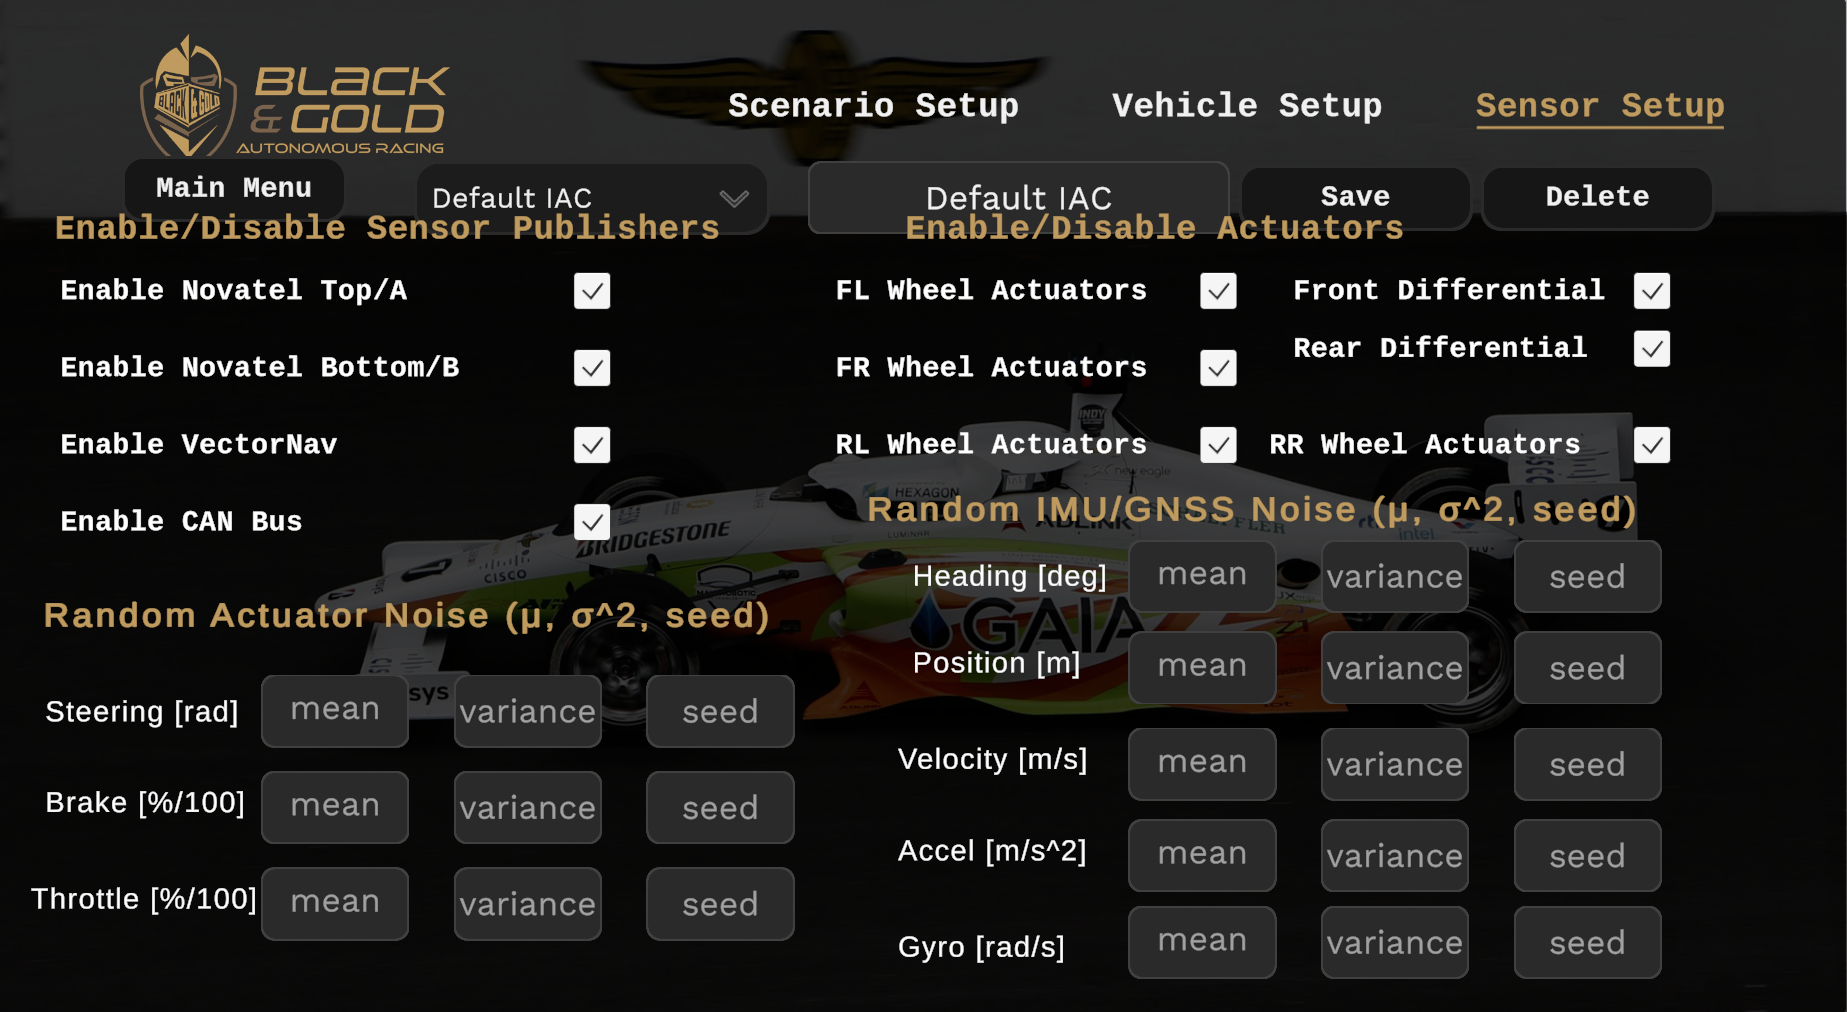
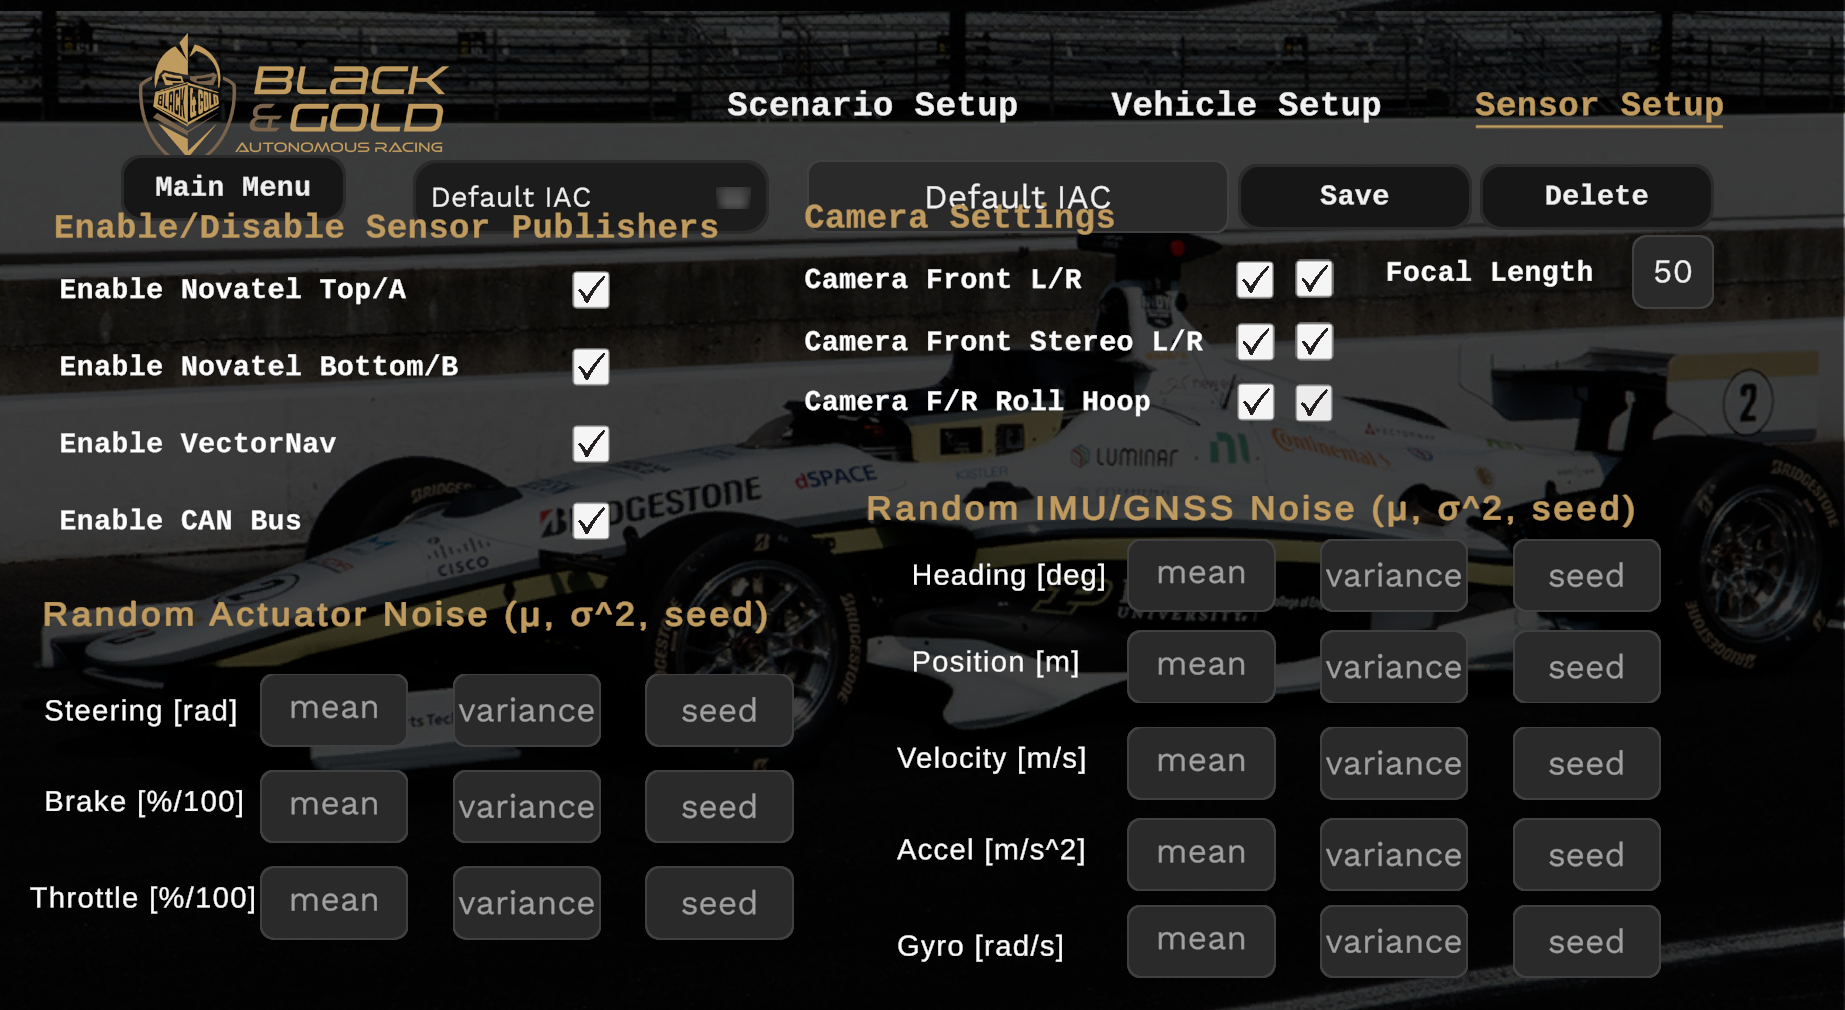
Deployed 218be4b with MkDocs version: 1.6.1

diff --git a/index.html b/index.html
@@ -403,6 +403,15 @@
   
 </li>
         
+          <li class="md-nav__item">
+  <a href="#camera-sensors" class="md-nav__link">
+    <span class="md-ellipsis">
+      Camera Sensors
+    </span>
+  </a>
+  
+</li>
+        
       </ul>
     </nav>
   
@@ -647,6 +656,15 @@
   <a href="#visualizing-raceline" class="md-nav__link">
     <span class="md-ellipsis">
       Visualizing Raceline
+    </span>
+  </a>
+  
+</li>
+        
+          <li class="md-nav__item">
+  <a href="#camera-sensors" class="md-nav__link">
+    <span class="md-ellipsis">
+      Camera Sensors
     </span>
   </a>
   
@@ -1124,6 +1142,15 @@
   
 </li>
         
+          <li class="md-nav__item">
+  <a href="#camera-sensors" class="md-nav__link">
+    <span class="md-ellipsis">
+      Camera Sensors
+    </span>
+  </a>
+  
+</li>
+        
       </ul>
     </nav>
   
@@ -1273,7 +1300,8 @@ In the main menu, click the 'Scenario Setup' button.
     - Set ambient and track temperatures (Celsius)</p>
 <h2 id="sensor-setup-via-gui">Sensor Setup (via GUI)</h2>
 <p>PAIRSIM has input fields under sensor setup to configure the gaussian noise values of the corresponding actuator/sensor values. (Default values are 0.0)</p>
-<p>You can disable sensors or actuators to simulate faults.</p>
+<p>You can disable high-level or low-level sensors to simulate faults.</p>
+<p>You can also configure the perception sensors.</p>
 <p><img alt="" src="RacingSim/Overview/Image_sensor_setup.png" /></p>
 <h2 id="further-vehicletire-parameter-configuration-via-config-files">Further Vehicle/Tire Parameter configuration (via config files)</h2>
 <h3 id="part-i-loading-setup-configuration-files-via-gui">PART I. Loading Setup Configuration Files via GUI</h3>
@@ -1371,10 +1399,15 @@ Due to the large number of vehicle/tire parameters, they are not accessible thro
 </li>
 </ul>
 <h3 id="running-with-npc-vehicle">Running with NPC Vehicle</h3>
-<p>PAIRSIM supports multi-vehicle simulation, with the adversarial vehicle controlled either via the high-level ROS2 interface (<code>/npc/vehicle_data</code>, <code>/npc/powertrain_data</code>, <code>/npc/race_control</code>, <code>/npc/vehicle_inputs</code>, <code>/npc/to_raptor</code>)OR <code>/planning/ghost_veh_position</code>, which is a <code>autoware_auto_perception_msgs/BoundingBoxArray</code> msg type containing the current centroid position (x,y) of the desired "ghost" vehicle in the ego vehicle's local frame using conventional vehicle dynamics CRS (+x forward, +y left). Adversarial vehicle's +z direction will match the ego vehicle's by default.</p>
+<p>PAIRSIM supports multi-vehicle simulation, with the adversarial vehicle controlled either via the high-level ROS2 interface (<code>/npc/vehicle_data</code>, <code>/npc/powertrain_data</code>, <code>/npc/race_control</code>, <code>/npc/vehicle_inputs</code>, <code>/npc/to_raptor</code>) OR (<code>/planning/ghost_vehicle/heading</code>, <code>/planning/ghost_vehicle/measurement</code>).</p>
+<p><code>/planning/ghost_vehicle/heading</code> is a <code>std_msgs/Float32.msg</code> msg type containing the current ENU heading [deg] of the desired "ghost" vehicle.</p>
+<p><code>/planning/ghost_vehicle/measurement</code> is a <code>std_msgs/Point32.msg</code> msg type containing the centroid position (x,y) of the desired "ghost" vehicle in the ego vehicle's local frame using conventional vehicle dynamics CRS (+x forward, +y left). The adversarial vehicle's +z direction will match the ego vehicle's by default and will be automatically rotated about the longitudinal axis in order to conform to the banked surface.</p>
 <h3 id="visualizing-raceline">Visualizing Raceline</h3>
 <p>PAIRSIM supports raceline visualization, where the raceline being sent by the autonomy stack will appear as a series of green dots. Toggle on/off on the top left side of the screen (see below). The raceline must be sent with the topic name <code>/planning/front_path/offset_path</code>, which is a <code>nav_msgs/Path</code> msg type containing a raceline represented as a series of <code>geometry_msgs/Pose</code> msgs in the ego vehicle's local frame using conventional vehicle dynamics CRS. To reduce lag, it is best to pass a local portion of the raceline rather than the entire raceline (no more than 100 poses, and the number of green dots will NOT necessarily match the number of poses).</p>
 <p><img alt="" src="RacingSim/Overview/Image_waypoints.png" /></p>
+<h3 id="camera-sensors">Camera Sensors</h3>
+<p>The publishers for each of the 6 on-board camera sensors will publish a <code>sensor_msgs/Image.msg</code> if previously enabled in the Sensor Setup menu. All 6 cameras may consume a lot of resources so it is recommended you enable only a few at a time.</p>
+<p><img alt="" src="RacingSim/Overview/Image_cameras.png" /></p>
 <h2 id="copyright-and-license">Copyright and License</h2>
 <p>Copyright 2024 Purdue AI Racing</p>
 <p>All code is licensed under the Apache 2.0 License. All assets are distributed under the CC BY-NC License.</p>
